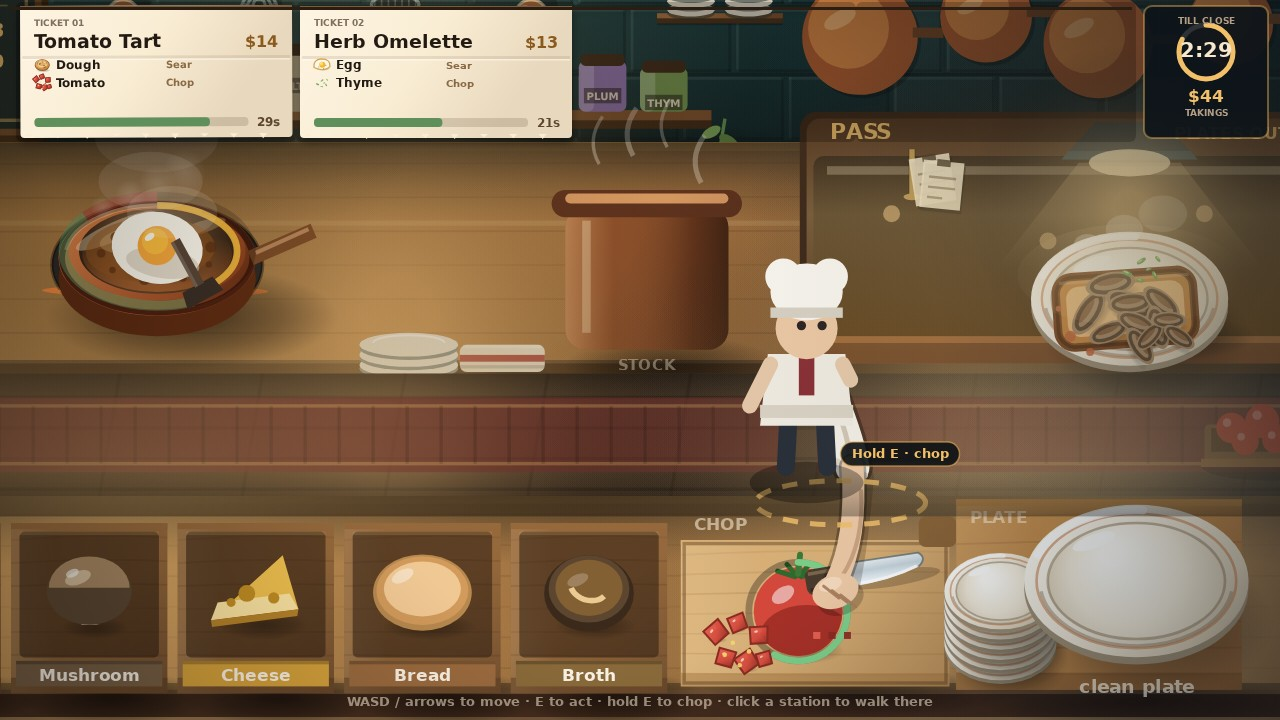
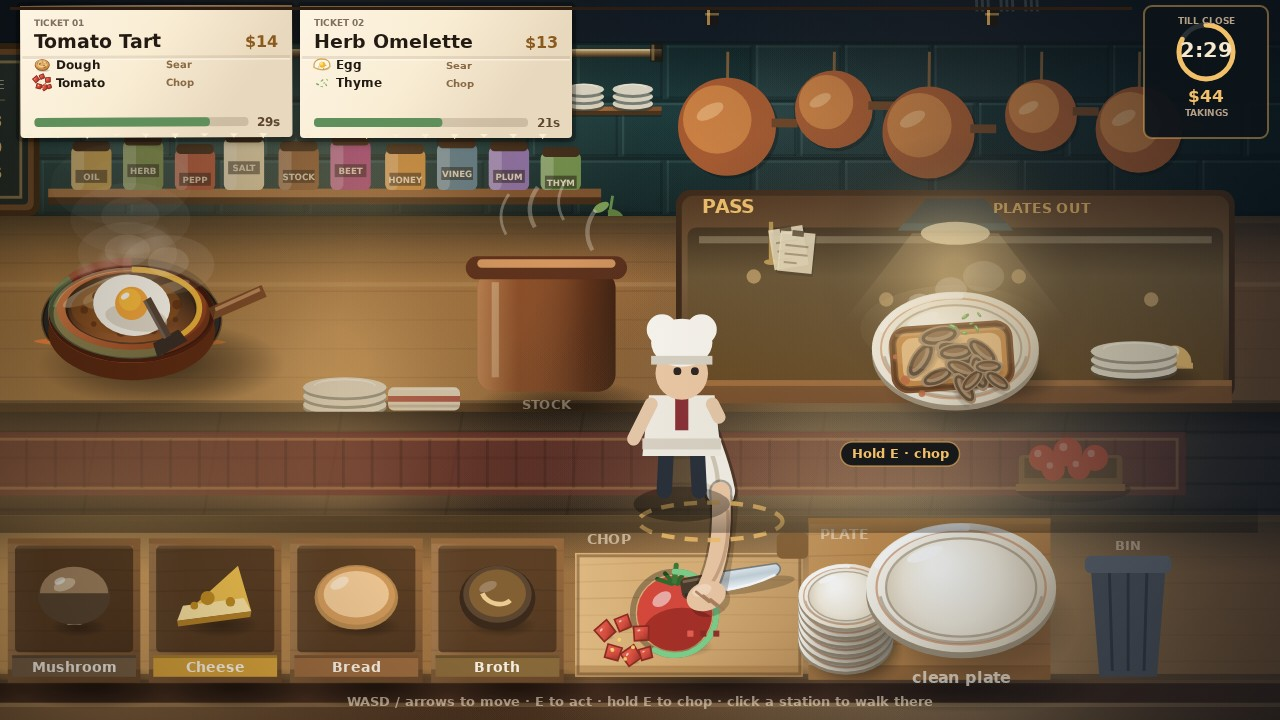
Two frames re-aimed on the line, a furnished bar ledge, and a rail that shows its empty hooks
The chopping and plating cells were cutting through the pans and the house
plaque and leaving a bare counter down the middle: both cameras now land their
frame edges in the gaps between stations, sit below the ticket rail and stop
just above the plaque, so the board, the pass lamp, the plate line and the
crates all read at cell size. The bar front carries the service row a line
keeps to hand — folded napkins, a cutlery tray, two upended glasses, the brass
bell and a stack of side plates, each with its contact shadow. A stale rail
slot is now a bare brass clip instead of a dark empty card, the pan steam has a
bright core, and the chalkboard fills its last line.

diff --git a/game/src/room.js b/game/src/room.js
@@ -114,6 +114,19 @@ function chalkboard(ctx) {
     const width = ctx.measureText(recipe.name).width;
     ctx.fillRect(cx + width + 6, cy - 3, Math.max(4, 162 - width - 22), 1);
   }
+
+  // the sixth line the board keeps for the side the bar sends out with every order
+  const sideX = x + 18 + 188;
+  const sideY = y + 50 + 36;
+  ctx.textAlign = 'left';
+  ctx.font = `600 11px ${FONT}`;
+  ctx.fillStyle = 'rgba(246,231,205,0.9)';
+  ctx.fillText('Bread & Butter', sideX, sideY);
+  ctx.textAlign = 'right';
+  ctx.fillStyle = 'rgba(242,192,105,0.95)';
+  ctx.fillText('$6', sideX + 168, sideY);
+  ctx.fillStyle = 'rgba(246,231,205,0.18)';
+  ctx.fillRect(sideX + ctx.measureText('Bread & Butter').width + 6, sideY - 3, 132 - ctx.measureText('Bread & Butter').width, 1);
 }
 
 /** The shelf of dry goods, and the sprig of thyme hung at its end. */
@@ -854,6 +867,121 @@ function barFront(ctx) {
   ctx.fillStyle = 'rgba(255,214,150,0.3)';
   ctx.fillRect(1056, FOREGROUND.top + 50, 76, 3);
 
+  // the service row along the bar ledge: the things a line keeps within reach of the pass lamp —
+  // folded napkins, a cutlery tray, the glasses the room is drinking out of, and the bell. Small,
+  // warm-lit, each with its contact shadow, so the band under the pantry is a working bar.
+  const ledge = FOREGROUND.top + 66;
+
+  // folded napkins, a short stack off true
+  ctx.save();
+  castShadow(ctx, 332, ledge + 2, 46, 9, 0.42);
+  for (const [lift, tilt, w] of [[0, -0.01, 82], [7, 0.008, 78], [14, -0.004, 74]]) {
+    ctx.save();
+    ctx.translate(332, ledge - lift);
+    ctx.rotate(tilt);
+    fillRound(ctx, -w / 2, -7, w, 8, 2, '#e7dcc2');
+    ctx.fillStyle = 'rgba(255,255,255,0.4)';
+    ctx.fillRect(-w / 2 + 2, -7, w - 4, 1.6);
+    ctx.fillStyle = 'rgba(122,90,52,0.22)';
+    ctx.fillRect(-w / 2 + 2, 0, w - 4, 1.4);
+    ctx.restore();
+  }
+  ctx.restore();
+
+  // the cutlery tray: three handles and the brass ferrules, laid along it
+  ctx.save();
+  castShadow(ctx, 436, ledge + 2, 54, 9, 0.4);
+  fillRound(ctx, 384, ledge - 14, 104, 14, 3, '#4a2f1a');
+  ctx.fillStyle = 'rgba(255,214,150,0.18)';
+  ctx.fillRect(386, ledge - 14, 100, 2);
+  for (const [hx, rot] of [[400, -0.06], [420, 0.02], [440, -0.03]]) {
+    ctx.save();
+    ctx.translate(hx, ledge - 12);
+    ctx.rotate(rot);
+    ctx.fillStyle = '#cfd9d8';
+    ctx.fillRect(-3, -30, 6, 30);
+    ctx.fillStyle = 'rgba(255,255,255,0.6)';
+    ctx.fillRect(-3, -30, 2, 30);
+    ctx.fillStyle = '#a8862f';
+    ctx.fillRect(-3.5, -13, 7, 3);
+    ctx.restore();
+  }
+  ctx.restore();
+
+  // two upended glasses, catching the key along their stems
+  for (const gx of [812, 848]) {
+    ctx.save();
+    castShadow(ctx, gx + 1, ledge + 1, 15, 5, 0.34);
+    ctx.fillStyle = 'rgba(228,244,240,0.34)';
+    ctx.beginPath();
+    ctx.moveTo(gx - 12, ledge - 10);
+    ctx.quadraticCurveTo(gx - 11, ledge - 26, gx - 2, ledge - 27);
+    ctx.lineTo(gx + 2, ledge - 27);
+    ctx.quadraticCurveTo(gx + 11, ledge - 26, gx + 12, ledge - 10);
+    ctx.closePath();
+    ctx.fill();
+    ctx.strokeStyle = 'rgba(255,255,255,0.55)';
+    ctx.lineWidth = 1.3;
+    ctx.beginPath();
+    ctx.moveTo(gx - 11, ledge - 11);
+    ctx.quadraticCurveTo(gx - 10, ledge - 25, gx - 2, ledge - 26);
+    ctx.stroke();
+    ctx.fillStyle = 'rgba(236,246,240,0.5)';
+    ctx.fillRect(gx - 1, ledge - 36, 2, 10);
+    ctx.beginPath();
+    ctx.ellipse(gx, ledge - 36, 8, 2.2, 0, 0, Math.PI * 2);
+    ctx.fill();
+    ctx.restore();
+  }
+
+  // the service bell, brass with one bright spot
+  ctx.save();
+  castShadow(ctx, 906, ledge + 2, 20, 7, 0.45);
+  ctx.fillStyle = '#8a6220';
+  ctx.beginPath();
+  ctx.ellipse(900, ledge - 2, 20, 6, 0, 0, Math.PI * 2);
+  ctx.fill();
+  const dome = ctx.createLinearGradient(884, ledge - 22, 916, ledge - 2);
+  dome.addColorStop(0, '#f0c56a');
+  dome.addColorStop(0.55, '#c9962f');
+  dome.addColorStop(1, '#8a6220');
+  ctx.fillStyle = dome;
+  ctx.beginPath();
+  ctx.moveTo(884, ledge - 3);
+  ctx.quadraticCurveTo(886, ledge - 22, 900, ledge - 22);
+  ctx.quadraticCurveTo(914, ledge - 22, 916, ledge - 3);
+  ctx.closePath();
+  ctx.fill();
+  ctx.fillStyle = '#fff3cf';
+  ctx.beginPath();
+  ctx.ellipse(894, ledge - 16, 4, 2.4, -0.5, 0, Math.PI * 2);
+  ctx.fill();
+  ctx.fillStyle = '#a8791c';
+  ctx.beginPath();
+  ctx.ellipse(900, ledge - 24, 5, 4, 0, 0, Math.PI * 2);
+  ctx.fill();
+  ctx.restore();
+
+  // a stack of side plates at the far end of the ledge
+  ctx.save();
+  castShadow(ctx, 1218, ledge + 2, 40, 8, 0.4);
+  for (let i = 0; i < 4; i += 1) {
+    ctx.fillStyle = '#8c9187';
+    ctx.beginPath();
+    ctx.ellipse(1218, ledge - 4 - i * 6 + 2, 34, 8, 0, 0, Math.PI * 2);
+    ctx.fill();
+    ctx.fillStyle = '#e2ddcd';
+    ctx.beginPath();
+    ctx.ellipse(1218, ledge - 4 - i * 6, 34, 8, 0, 0, Math.PI * 2);
+    ctx.fill();
+    ctx.strokeStyle = 'rgba(255,255,255,0.5)';
+    ctx.lineWidth = 1;
+    ctx.beginPath();
+    ctx.ellipse(1218, ledge - 5 - i * 6, 25, 5.4, 0, Math.PI, Math.PI * 2);
+    ctx.stroke();
+  }
+  ctx.restore();
+
   const px = FIELD.width / 2;
   fillRound(ctx, px - 138, FOREGROUND.top + 20, 276, 42, 6, '#2a1a0e');
   ctx.strokeStyle = PALETTE.brass;
@@ -904,15 +1032,22 @@ export function drawAtmosphere(ctx, t) {
   ctx.fillStyle = haze;
   ctx.fillRect(L, 0, W, BOTTOM);
 
-  // steam off the two pans, made of overlapping ellipses that drift up and fade together
+  // steam off the two pans: a soft body with a brighter core, thinning as it climbs, so it reads as
+  // heat coming off the pan rather than as a smudge hung in front of the wall
   for (const [cx, base] of [[272, 306], [498, 306]]) {
-    for (let i = 0; i < 4; i += 1) {
-      const rise = ((t * 15 + i * 26) % 96);
-      const alpha = Math.max(0, 0.15 - rise * 0.0015);
-      const sway = Math.sin(t * 0.8 + i * 1.6) * 9;
-      ctx.fillStyle = `rgba(255,248,236,${alpha})`;
+    for (let i = 0; i < 5; i += 1) {
+      const rise = ((t * 13 + i * 24) % 104);
+      const life = Math.max(0, 1 - rise / 104);
+      const sway = Math.sin(t * 0.8 + i * 1.6) * 10;
+      const rx = 20 + rise * 0.3;
+      const ry = 13 + rise * 0.14;
+      ctx.fillStyle = `rgba(255,244,228,${0.1 * life})`;
       ctx.beginPath();
-      ctx.ellipse(cx - 12 + i * 8 + sway, base - rise, 26 + rise * 0.22, 15 + rise * 0.12, 0, 0, Math.PI * 2);
+      ctx.ellipse(cx - 12 + i * 7 + sway, base - rise, rx + 9, ry + 6, 0, 0, Math.PI * 2);
+      ctx.fill();
+      ctx.fillStyle = `rgba(255,250,242,${0.17 * life * life})`;
+      ctx.beginPath();
+      ctx.ellipse(cx - 12 + i * 7 + sway, base - rise - 2, rx * 0.62, ry * 0.7, 0, 0, Math.PI * 2);
       ctx.fill();
     }
   }

diff --git a/game/src/shots.js b/game/src/shots.js
@@ -60,7 +60,7 @@ export function stageShot(name, world) {
     // the pieces it has already made are heaped at the near edge, the ring says how far the chop has
     // run and the cook's whole arm is on it. A finished dish waits on the pass above, a pan still
     // goes on the left. The frame is cut in the gap between two pantry crates, so no label is sliced.
-    world.camera = { x: 782, y: 390, zoom: 1.7 };
+    world.camera = { x: 851, y: 362, zoom: 1.44 };
     world.time = SHIFT_SECONDS - 31;
     world.progress = 0.17;
     world.earned = 44;
@@ -88,7 +88,7 @@ export function stageShot(name, world) {
     // The plate line, a step back: two of three components already down on the plate, the ghost of
     // the third hovering over the well, the badge counting them, the cook arriving with the last one
     // in hand, and two finished dishes waiting under the pass lamp behind.
-    world.camera = { x: 847, y: 430, zoom: 1.45 };
+    world.camera = { x: 1017, y: 392, zoom: 1.55 };
     world.time = 96;
     world.progress = 0.47;
     world.earned = 154;

diff --git a/game/src/hud.js b/game/src/hud.js
@@ -201,9 +201,19 @@ export function drawRail(ctx, world) {
     ctx.save();
     ctx.translate(x, RAIL.top - 4);
     ctx.scale(scale, scale);
-    fillRound(ctx, 0, 0, TICKET_W + 8, TICKET_H + 8, 6, 'rgba(0,0,0,0.22)');
     const ticket = world.tickets[slot];
-    if (ticket) drawTicket(ctx, ticket, 4, 4, onHand(plateParts, ticket.recipe));
+    if (ticket) {
+      fillRound(ctx, 0, 0, TICKET_W + 8, TICKET_H + 8, 6, 'rgba(0,0,0,0.22)');
+      drawTicket(ctx, ticket, 4, 4, onHand(plateParts, ticket.recipe));
+    } else {
+      // an empty hook: just the clip on the rail, so the wall behind it shows through
+      ctx.fillStyle = 'rgba(32,22,12,0.55)';
+      ctx.fillRect(TICKET_W / 2 - 6, 7, 12, 17);
+      ctx.fillStyle = 'rgba(242,192,105,0.6)';
+      ctx.fillRect(TICKET_W / 2 - 5, 8, 3, 15);
+      ctx.fillStyle = 'rgba(242,192,105,0.4)';
+      ctx.fillRect(TICKET_W / 2 - 7, 11, 14, 2.5);
+    }
     ctx.restore();
   }
   ctx.fillStyle = '#2b1d12';
